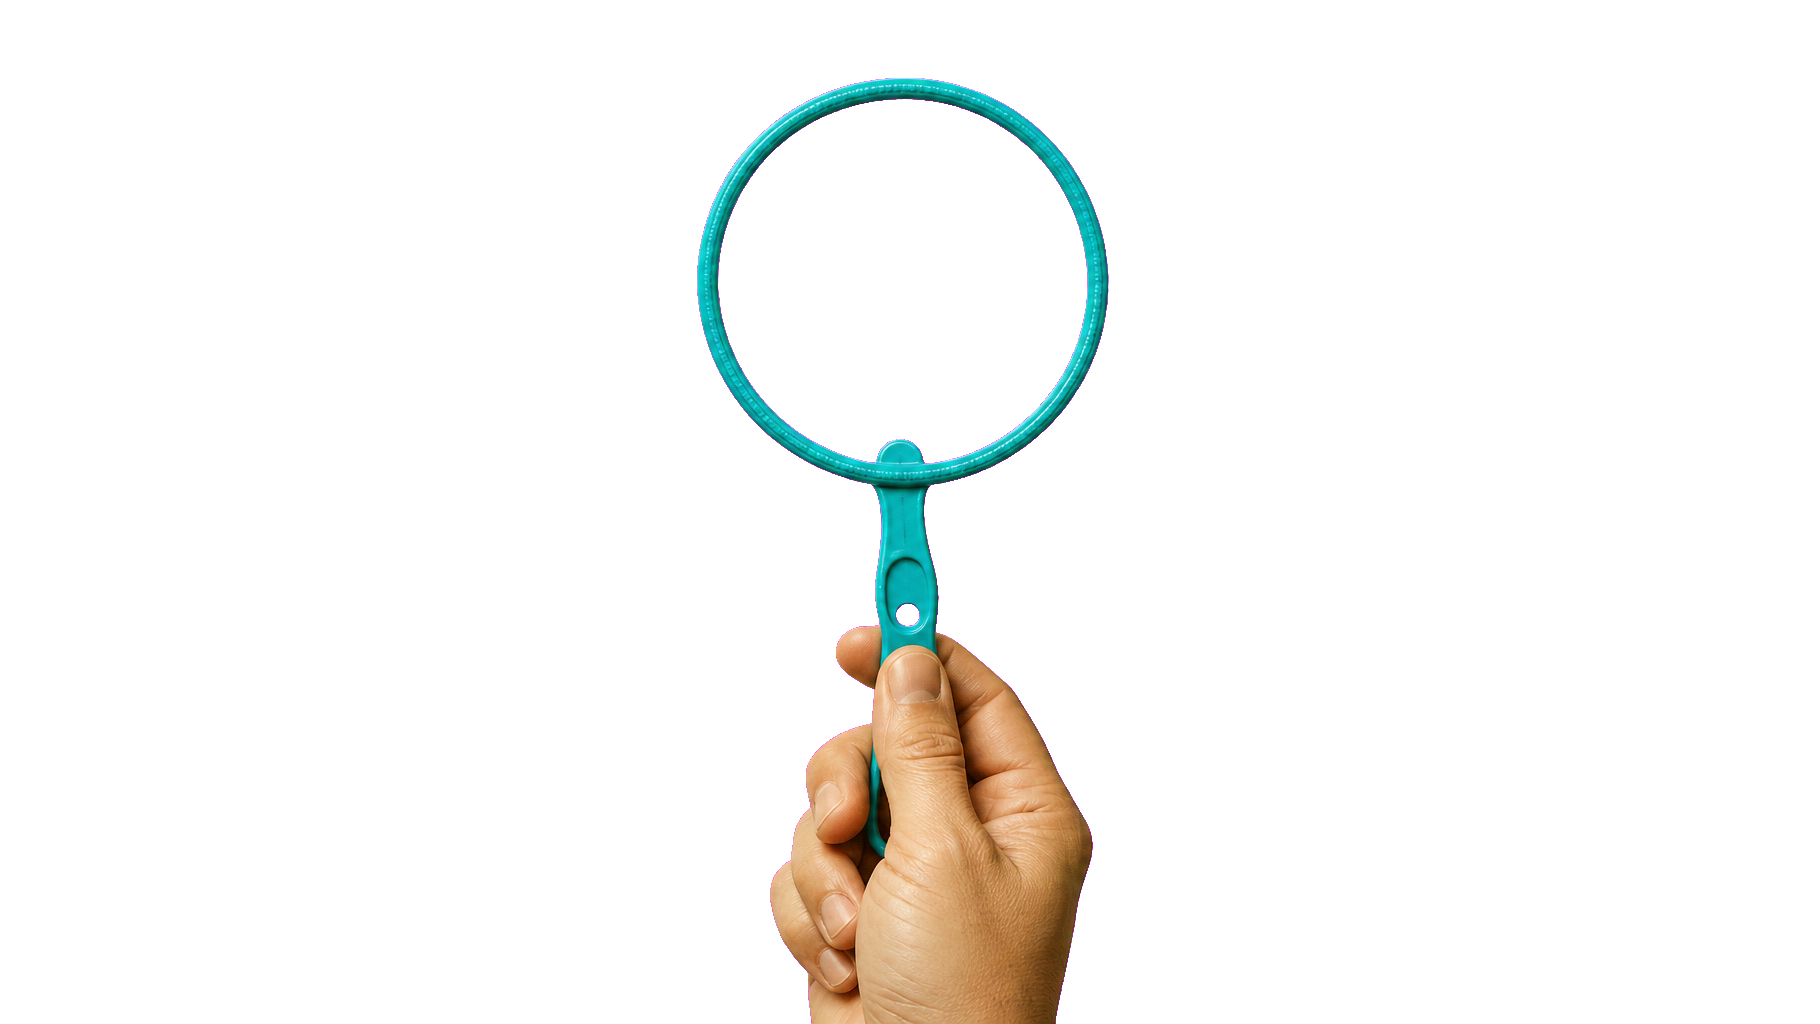
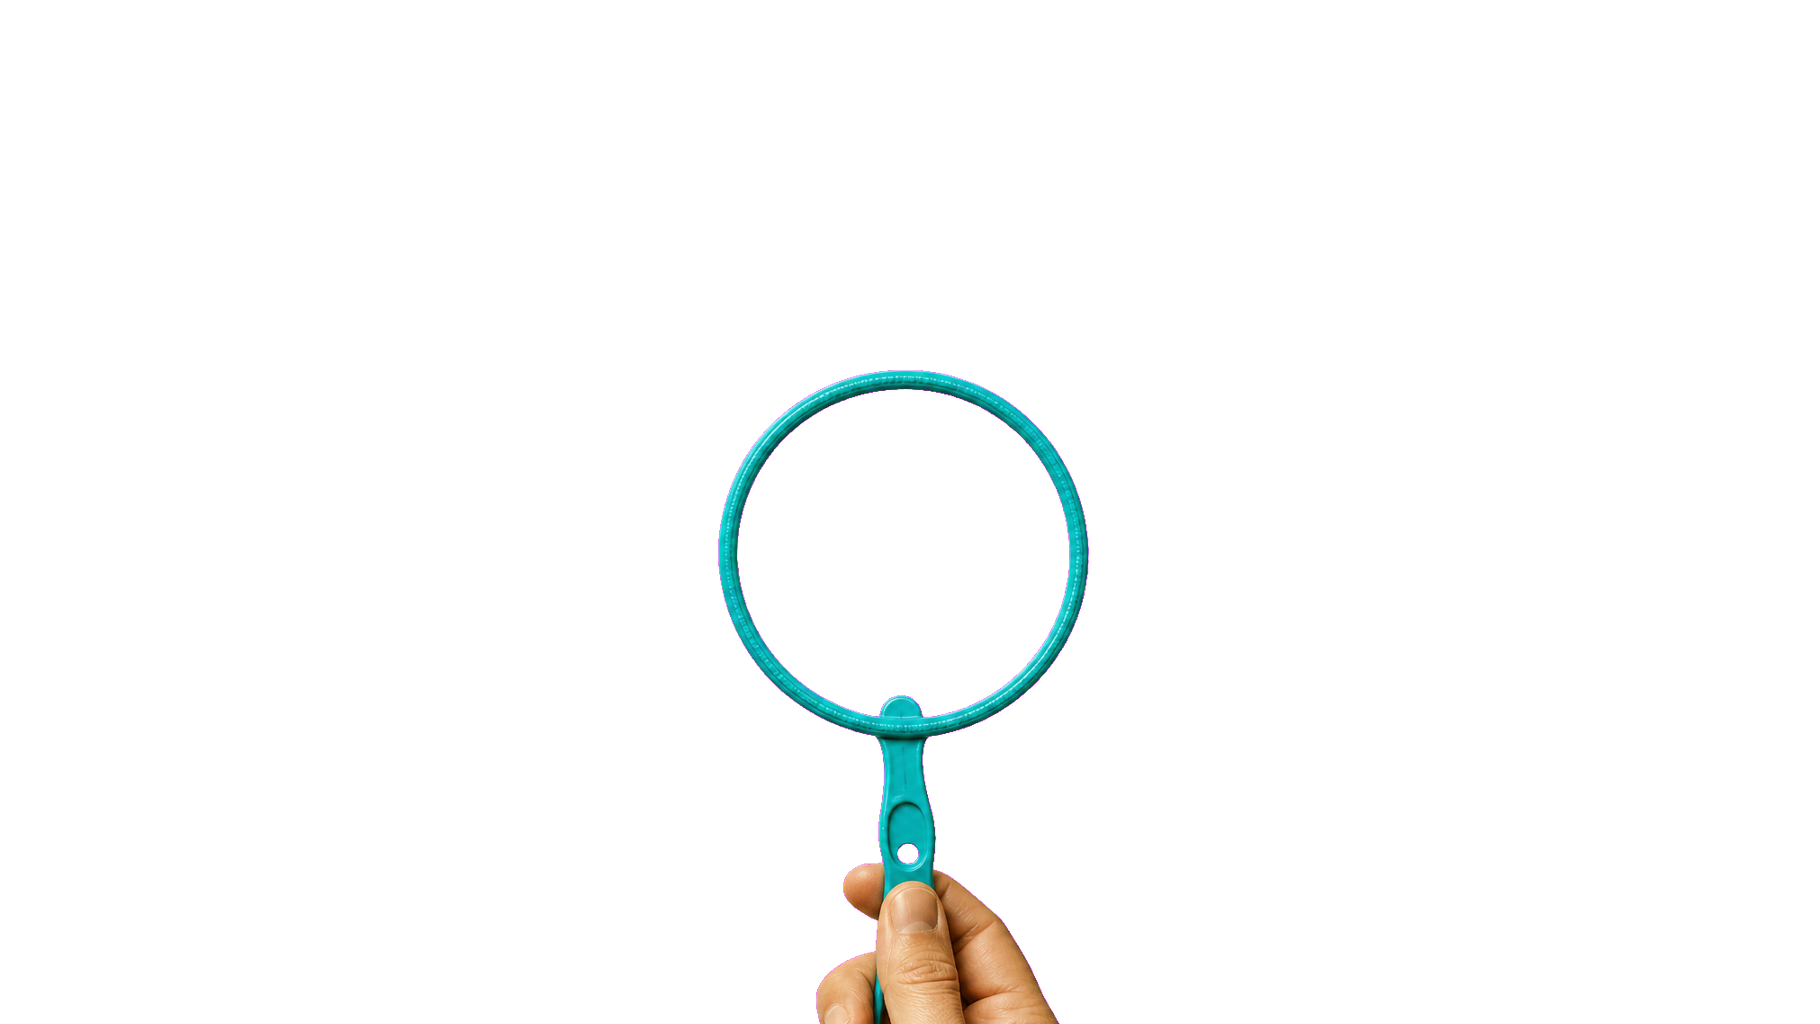
Preserve circular wand proportions and reveal hand grip

Changed region(s): [[0.3692, 0.0625, 0.6154, 1.0]]

diff --git a/soap-bubbles/style.css b/soap-bubbles/style.css
@@ -96,11 +96,10 @@ canvas {
 
 #meter {
   position: fixed;
-  left: 50%;
+  left: 1.25rem;
   bottom: 1.25rem;
   width: min(260px, calc(100vw - 2rem));
   padding: 0.85rem 1rem 0.75rem;
-  transform: translateX(-50%);
   border-radius: 16px;
   background: rgba(4, 15, 17, 0.58);
   border: 1px solid rgba(210, 247, 244, 0.16);
@@ -110,6 +109,13 @@ canvas {
   font-size: 0.72rem;
   z-index: 5;
   pointer-events: none;
+}
+
+@media (max-width: 640px) {
+  #meter {
+    left: 50%;
+    transform: translateX(-50%);
+  }
 }
 
 .meter-label {

diff --git a/soap-bubbles/sketch.js b/soap-bubbles/sketch.js
@@ -143,7 +143,7 @@ function spawnBubbles() {
 
   const wand = wandPosition();
   const scale = min(width, height);
-  const ringRadius = scale * 0.135;
+  const ringRadius = scale * 0.115;
   const strength = map(blowLevel, 0, 0.5, 0, 1, true);
   spawnAccumulator += params.spawnRate * strength * (deltaTime / 1000);
 
@@ -210,7 +210,7 @@ function packPopUniforms() {
 }
 
 function wandPosition() {
-  return [width * 0.5, height * 0.355];
+  return [width * 0.5, height * 0.55];
 }
 
 function windowResized() {
